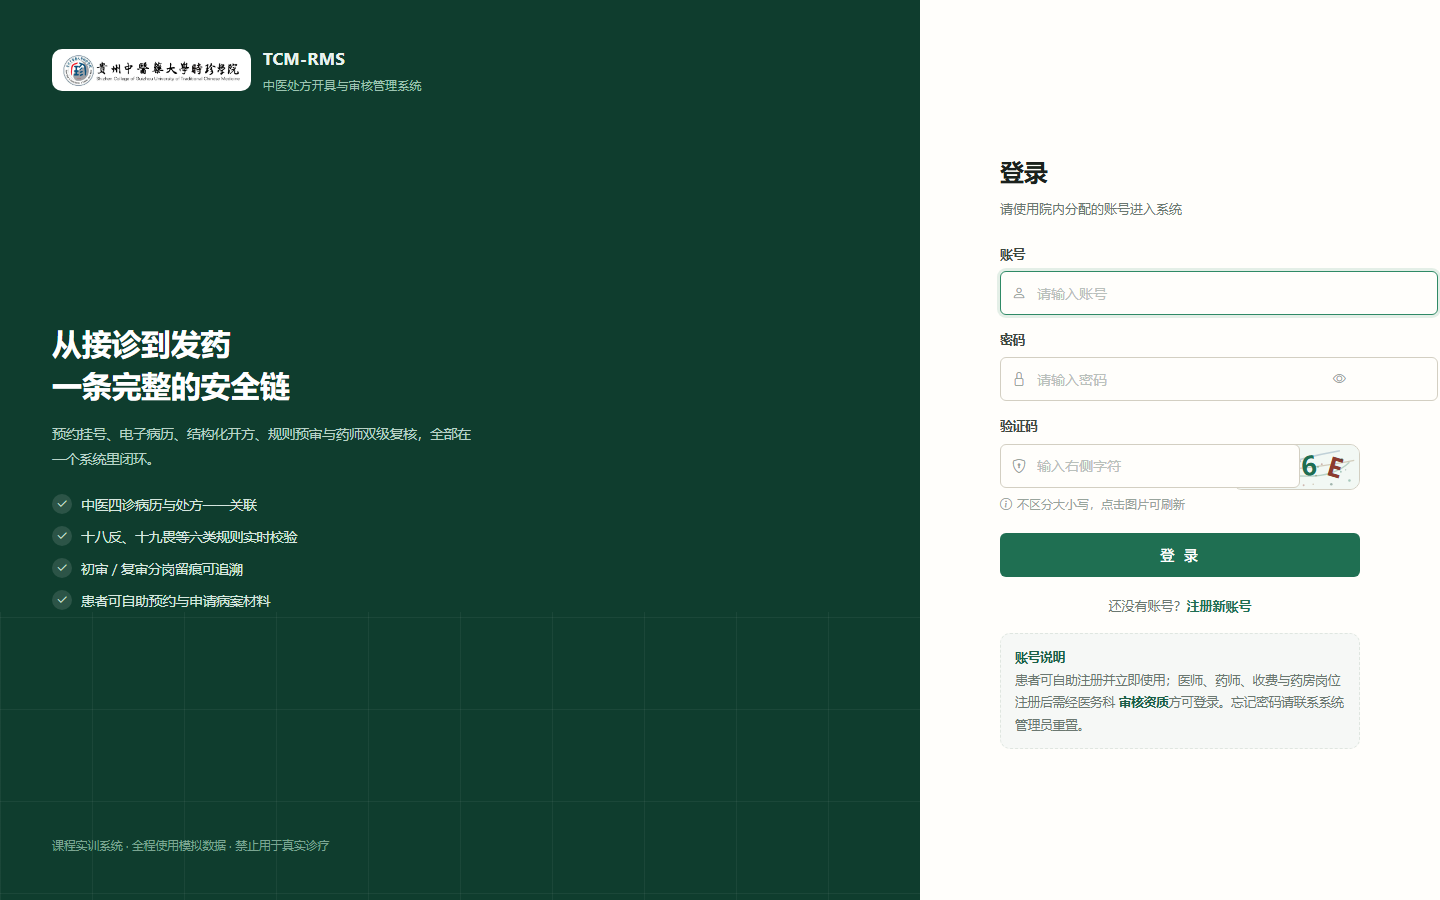
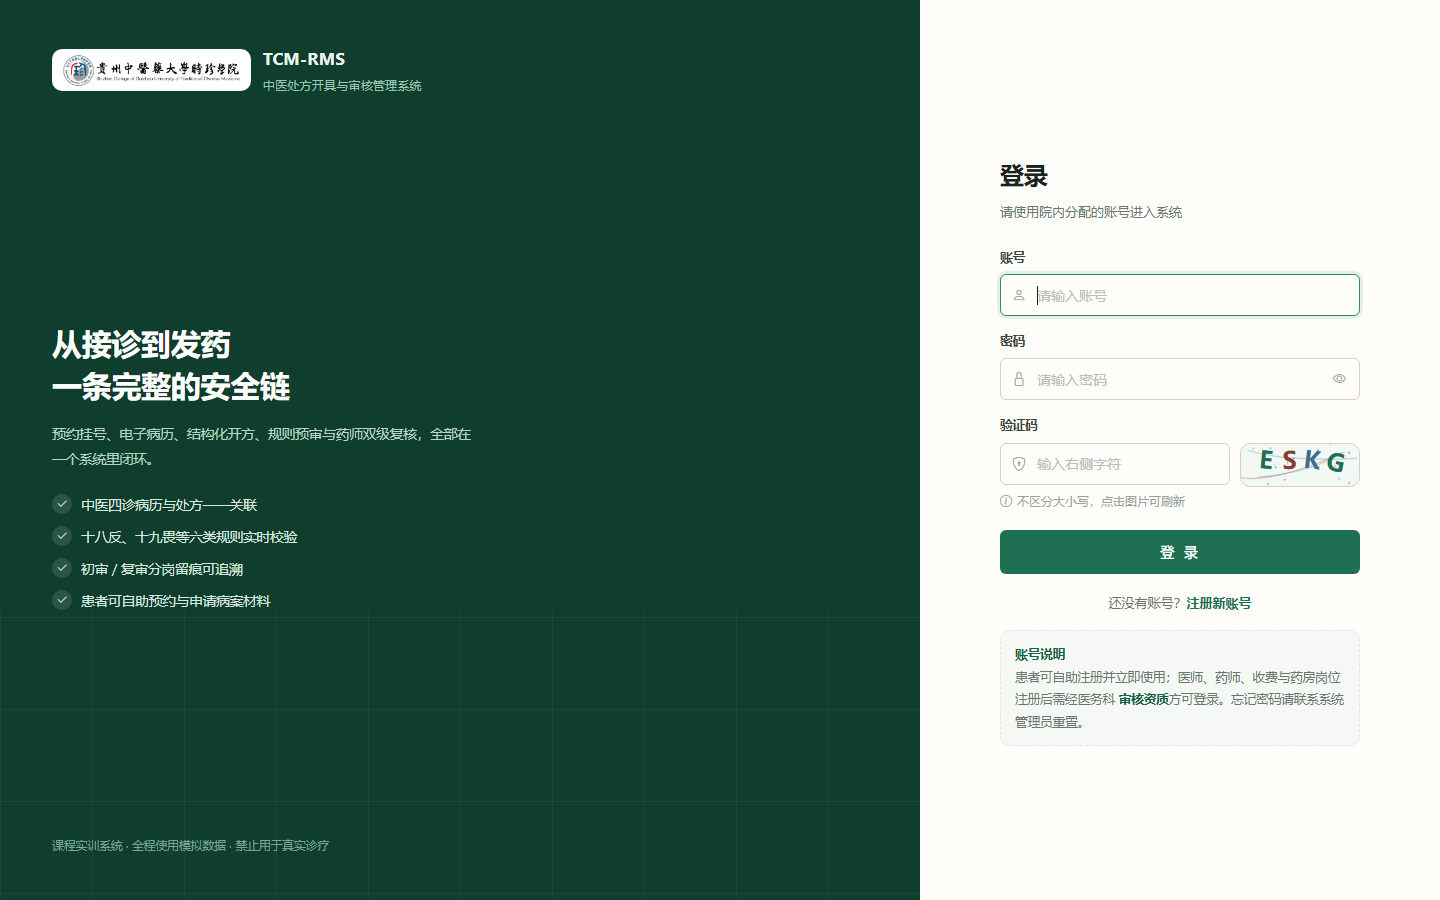
修复手机端验证码被挤出屏幕：认证页启用 border-box、栅格项 min-width 归零、验证码图片固定不收缩
- 认证页缺 box-sizing:border-box，input 的 width:100% 再叠 76px 内边距，窄屏上把输入框顶出卡片、验证码被挤扁裁切
- .cap-img 加 flex:0 0 auto + object-fit:contain，不再被压缩；窄屏 118px 宽，320px 屏仍完整可读
- 新增 start.bat 与 static/img/app.ico，用于生成带图标的桌面快捷方式

diff --git a/static/css/auth.css b/static/css/auth.css
@@ -1,18 +1,34 @@
 /* 登录 / 注册页：左侧品牌叙事 + 右侧表单，与主系统共用设计令牌 */
 
+/* 认证页统一用 border-box：
+   否则 .input-wrap input 的 width:100% 会再叠加 76px 内边距，
+   在窄屏上直接把输入框撑出卡片、把验证码图片挤出屏幕。
+   仅作用于认证页，不影响后台管理界面。 */
+.auth-body,
+.auth-body *,
+.auth-body *::before,
+.auth-body *::after { box-sizing: border-box; }
+
 .auth-body {
   margin: 0;
   min-height: 100vh;
   background: var(--paper);
   font-family: -apple-system, "Segoe UI", "PingFang SC", "Microsoft YaHei", sans-serif;
   color: var(--ink-900);
+  max-width: 100%;
+  overflow-x: hidden;
 }
 
 .auth-shell {
   display: grid;
   grid-template-columns: minmax(0, 1fr) minmax(420px, 520px);
   min-height: 100vh;
+  max-width: 100%;
 }
+
+/* 栅格项默认 min-width:auto，内容一宽就顶出视口；显式归零才能随屏收缩 */
+.auth-shell > * { min-width: 0; }
+
 
 /* ---------- 左侧品牌区 ---------- */
 .auth-aside {
@@ -216,7 +232,15 @@
 .auth-form.compact { gap: 12px; }
 
 @media (max-width: 900px) {
-  .auth-shell { grid-template-columns: 1fr; }
+  .auth-shell { grid-template-columns: minmax(0, 1fr); }
   .auth-aside { display: none; }
   .auth-main { padding: 32px 20px; }
+}
+
+/* 窄屏：触控目标加大，字号收紧，保证验证码整块可见 */
+@media (max-width: 480px) {
+  .auth-main { padding: 24px 16px; }
+  .auth-card { max-width: 100%; }
+  .input-wrap input { height: 46px; font-size: 15px; }
+  .auth-submit { height: 46px; }
 }

diff --git a/templates/users/login.html b/templates/users/login.html
@@ -10,11 +10,13 @@
     <style>
         .auth-logo { background: #fff; border-radius: 10px; padding: 4px 8px; display: inline-block; }
         .auth-logo img { display: block; height: 34px; width: auto; }
-        .cap-row { display: flex; gap: 10px; align-items: stretch; }
-        .cap-row .input-wrap { flex: 1; }
+        .cap-row { display: flex; gap: 10px; align-items: stretch; min-width: 0; }
+        .cap-row .input-wrap { flex: 1 1 auto; min-width: 0; }
+        .cap-row .input-wrap input { padding-right: 12px; }
         .cap-img {
-            width: 126px; height: 44px; border: 1px solid var(--line-strong, #d3cfc2);
-            border-radius: 10px; cursor: pointer; background: #f2f8f4; object-fit: cover;
+            flex: 0 0 auto; box-sizing: border-box;
+            width: 120px; height: 44px; border: 1px solid var(--line-strong, #d3cfc2);
+            border-radius: 10px; cursor: pointer; background: #f2f8f4; object-fit: contain;
         }
         .cap-hint { font-size: 12px; color: var(--ink-300, #98a49c); margin-top: 4px; display: flex; gap: 5px; align-items: center; }
         .auth-note {
@@ -23,7 +25,9 @@
         }
         .auth-note b { color: #1a5f47; }
         @media (max-width: 480px) {
-            .cap-img { width: 108px; }
+            .cap-row { gap: 8px; }
+            .cap-img { width: 118px; height: 44px; border-radius: 8px; }
+            .cap-row .input-wrap input { height: 44px; font-size: 13.5px; }
         }
     </style>
 </head>
